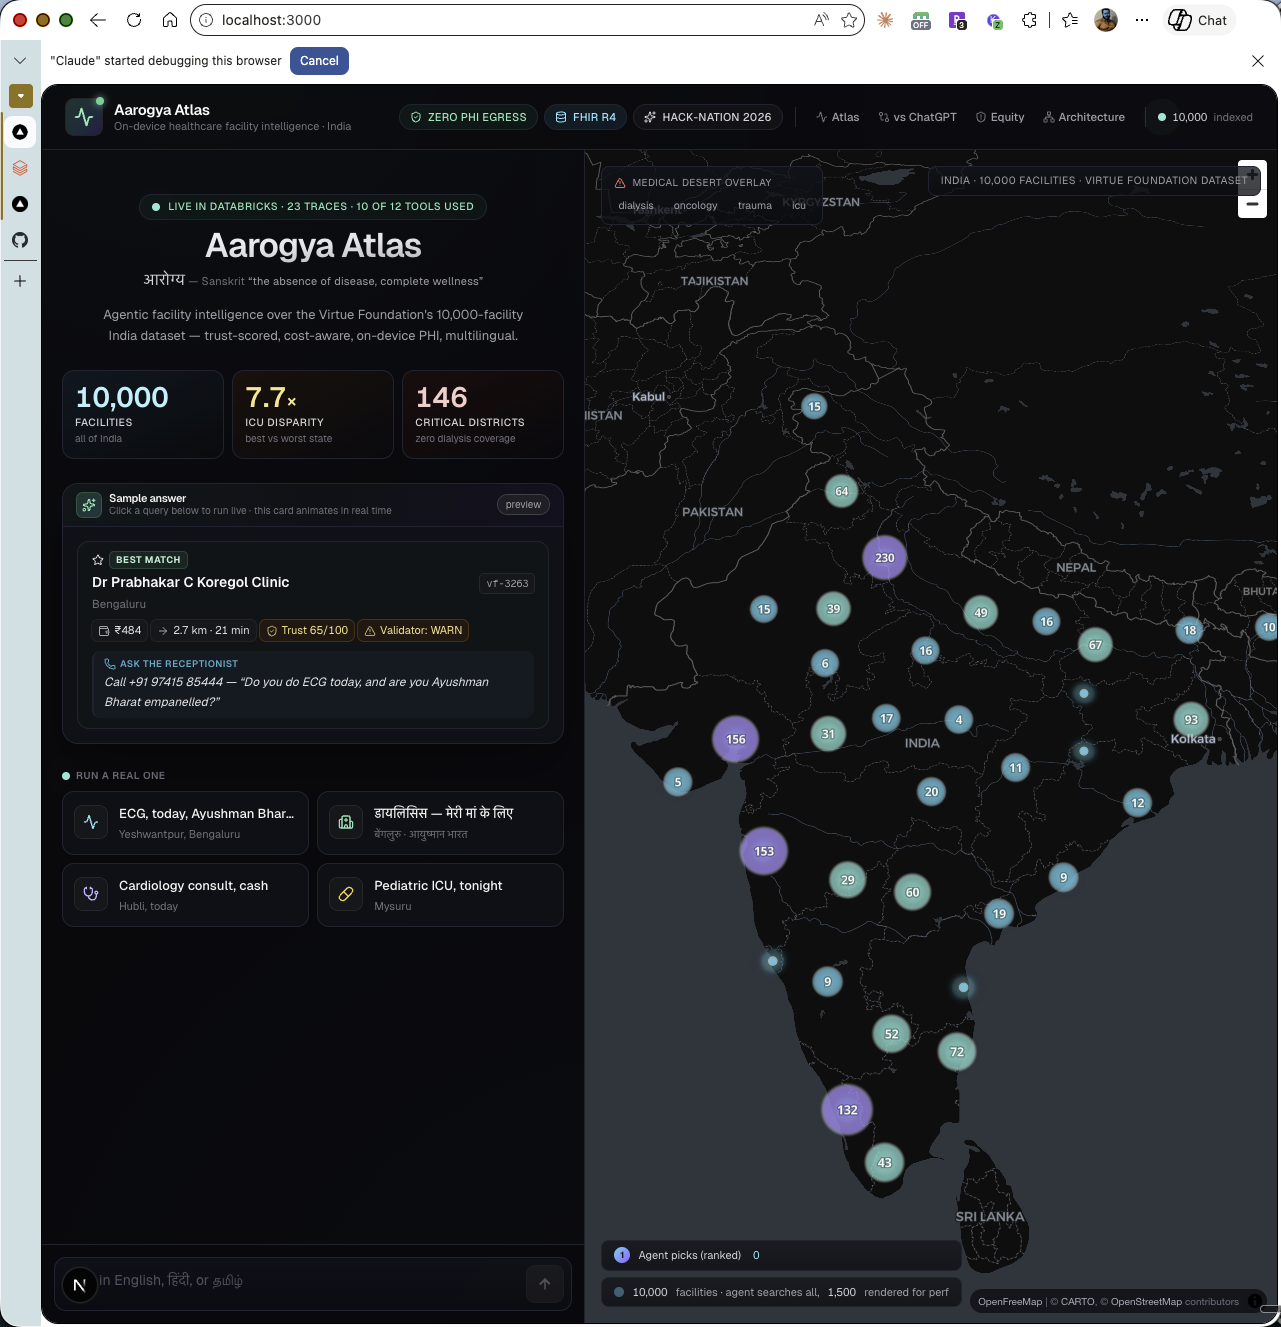
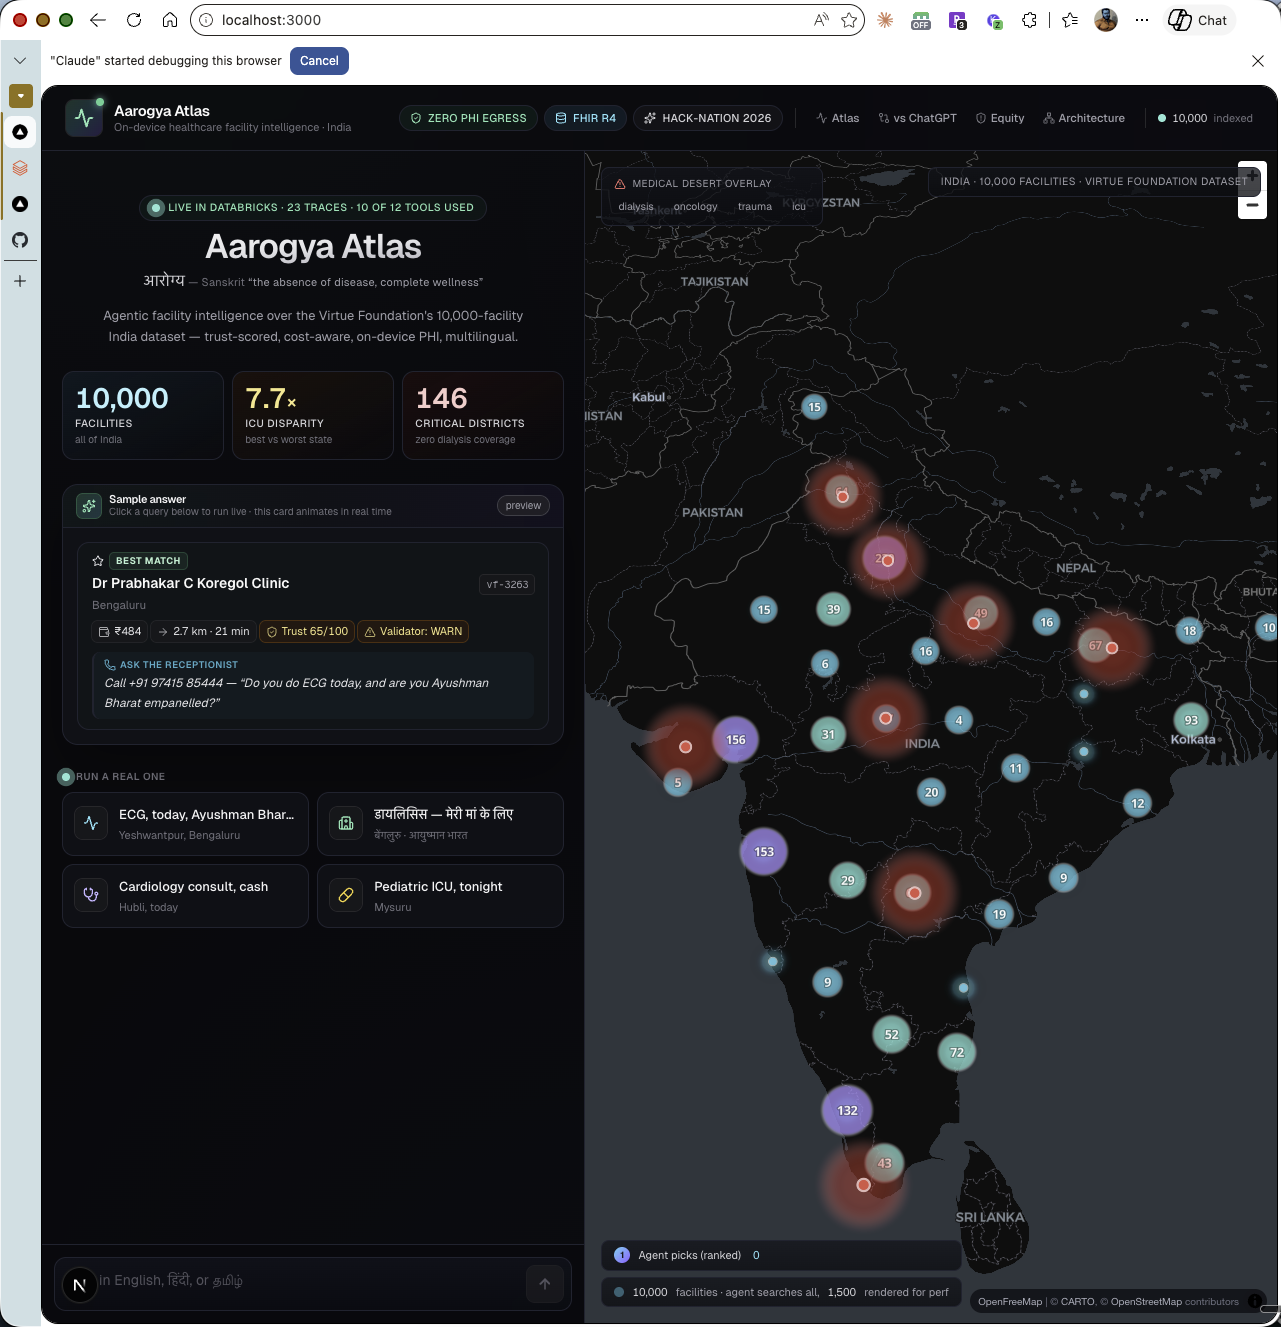
feat(map): pulsing critical-district halos visible at idle
- page.tsx preloads top-8 most critical dialysis districts on first load
  even when no overlay toggle is selected — gives the map narrative
  without requiring user input
- MapView adds a pulsing layer underneath each desert dot, animated
  via setInterval (radius 5->27, opacity 0.7->0.15, 50ms tick)
- Layer added under desert-dot so the dot stays crisp on top of the pulse
- Cleanup interval on unmount

diff --git a/apps/web/src/components/MapView.tsx b/apps/web/src/components/MapView.tsx
@@ -40,6 +40,7 @@ const LAYER_UNCLUSTERED = "facilities-unclustered";
 const LAYER_ROUTE = "route-line";
 const LAYER_BUILDINGS = "ofm-3d-buildings";
 const LAYER_DESERT_HALO = "desert-halo";
+const LAYER_DESERT_PULSE = "desert-pulse";
 const LAYER_DESERT_DOT = "desert-dot";
 const LAYER_DESERT_LABEL = "desert-label";
 
@@ -220,12 +221,24 @@ export default function MapView({
         type: "circle",
         source: SRC_DESERTS,
         paint: {
-          "circle-radius": 4,
+          "circle-radius": 5,
           "circle-color": "#ef4444",
-          "circle-stroke-width": 1.5,
-          "circle-stroke-color": "rgba(255,255,255,0.7)",
+          "circle-stroke-width": 2,
+          "circle-stroke-color": "rgba(254, 202, 202, 0.85)",
         },
       });
+      // Pulse layer underneath desert dots — animated via setInterval below.
+      map.addLayer({
+        id: LAYER_DESERT_PULSE,
+        type: "circle",
+        source: SRC_DESERTS,
+        paint: {
+          "circle-radius": 5,
+          "circle-color": "rgba(239, 68, 68, 0.5)",
+          "circle-blur": 0.6,
+          "circle-opacity": 0.6,
+        },
+      }, LAYER_DESERT_DOT);
       map.addLayer({
         id: LAYER_DESERT_LABEL,
         type: "symbol",
@@ -334,7 +347,20 @@ export default function MapView({
     mapRef.current = map;
     (window as unknown as { __aaMap?: maplibregl.Map }).__aaMap = map;
 
+    // Pulse animation loop — radius oscillates between 5 and 26
+    let pulseFrame = 0;
+    const pulseInterval = window.setInterval(() => {
+      if (!map.getLayer(LAYER_DESERT_PULSE)) return;
+      pulseFrame = (pulseFrame + 1) % 60;
+      const t = pulseFrame / 60;
+      const radius = 5 + Math.sin(t * Math.PI) * 22;
+      const opacity = 0.7 - Math.sin(t * Math.PI) * 0.55;
+      map.setPaintProperty(LAYER_DESERT_PULSE, "circle-radius", radius);
+      map.setPaintProperty(LAYER_DESERT_PULSE, "circle-opacity", Math.max(0, opacity));
+    }, 50);
+
     return () => {
+      window.clearInterval(pulseInterval);
       rankedMarkersRef.current.forEach((m) => m.remove());
       rankedMarkersRef.current.clear();
       map.remove();

diff --git a/apps/web/src/app/page.tsx b/apps/web/src/app/page.tsx
@@ -44,7 +44,11 @@ export default function HomePage() {
 
   useEffect(() => {
     if (!desertSpecialty) {
-      setDeserts([]);
+      // Idle showcase: preload the top critical dialysis districts so the
+      // map has narrative even before the user picks an overlay.
+      fetchDeserts("dialysis")
+        .then((d) => setDeserts(d.slice(0, 8)))
+        .catch(() => setDeserts([]));
       return;
     }
     setDesertLoading(true);
